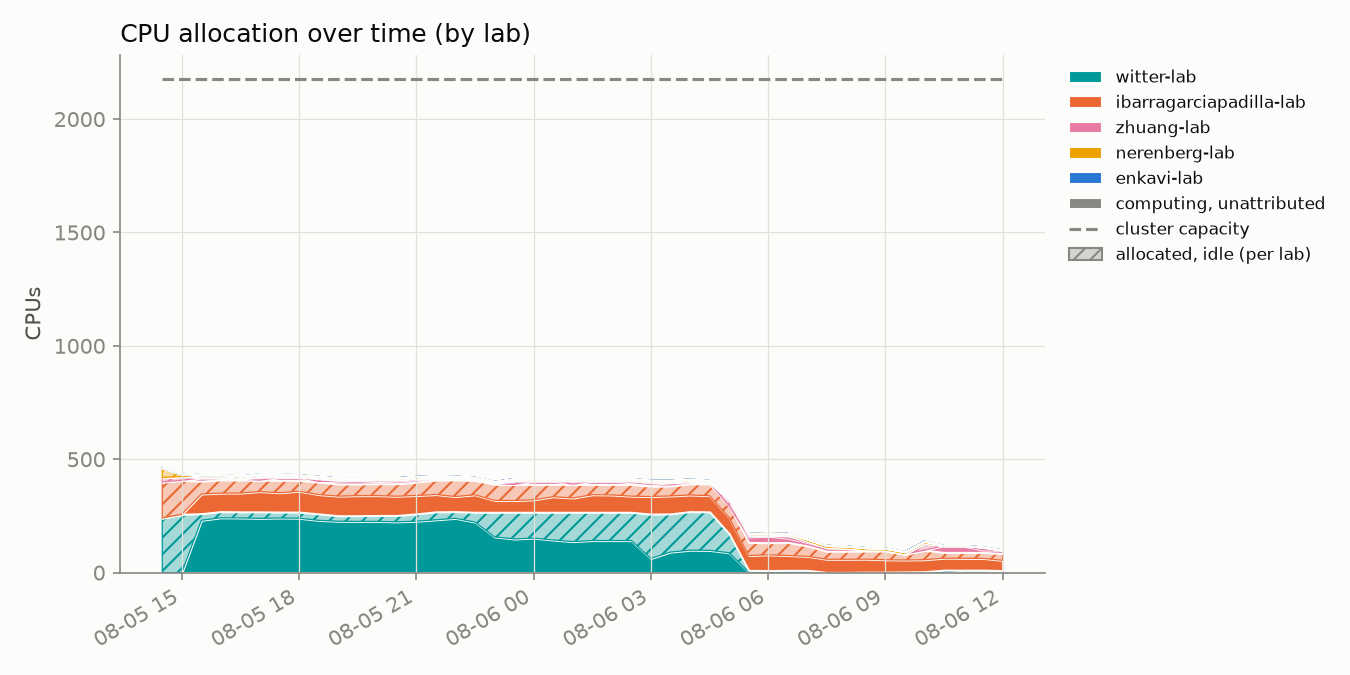
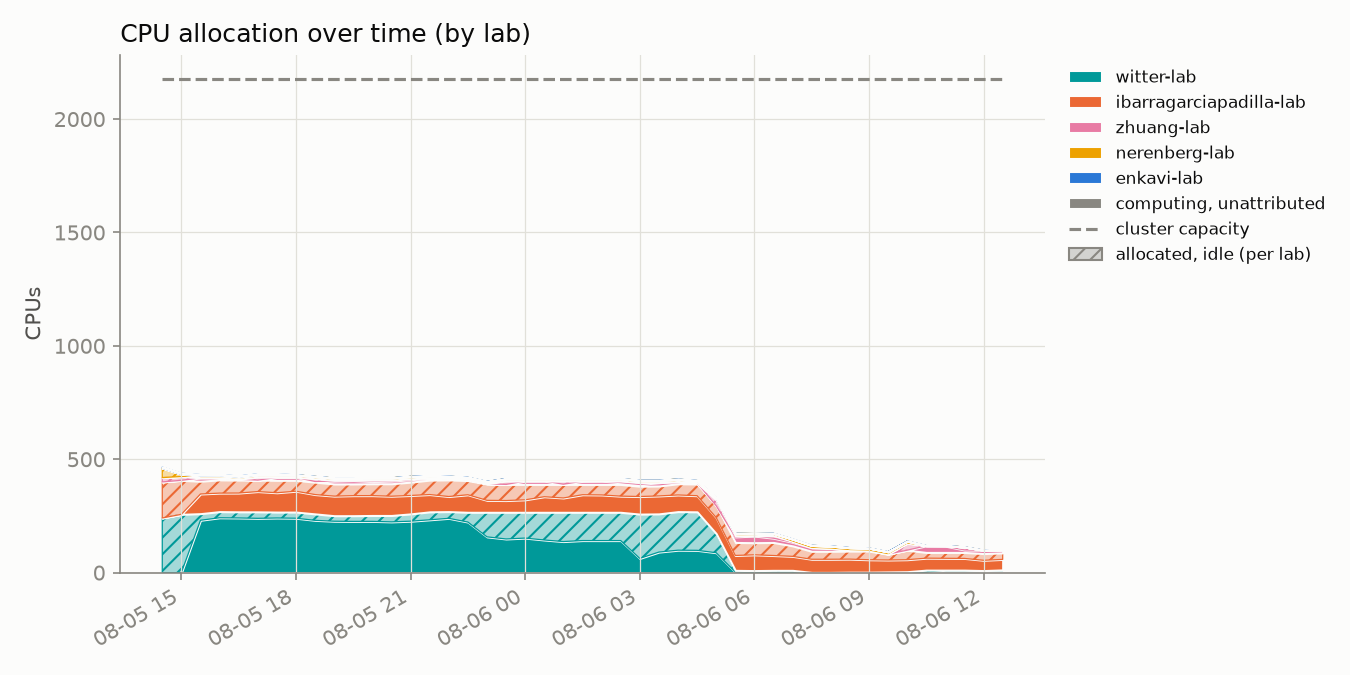
update 2026-08-06T12:30:01-07:00

diff --git a/README.md b/README.md
@@ -2,8 +2,8 @@
 
 Automated GPU/CPU/queue utilization tracker for `hopper.cluster`, updated every 30 minutes by cron. Usernames are anonymized to a stable per-account pseudonym; lab names are real.
 
-Last updated: 2026-08-06T12:00:19-07:00
-Samples: 44 queue snapshots, 44 GPU snapshots
+Last updated: 2026-08-06T12:30:18-07:00
+Samples: 45 queue snapshots, 45 GPU snapshots
 
 ## Resources
 
@@ -16,22 +16,22 @@ Samples: 44 queue snapshots, 44 GPU snapshots
 
 ## Headline
 
-- **70.3%** of the cluster's 60 GPUs allocated, averaged across all samples
+- **69.6%** of the cluster's 60 GPUs allocated, averaged across all samples
 - **39.8%** average `nvidia-smi` utilization *when* a GPU is allocated to a job
-- **82.0%** average cgroup CPU utilization *when* a CPU is allocated to a job
+- **82.2%** average cgroup CPU utilization *when* a CPU is allocated to a job
 
 ## Per lab / per user
 
 <table>
 <tr><th>Lab</th><th>User</th><th align='right'>GPU-hours allocated</th><th align='right'>CPU-hours allocated</th><th align='right'>GPU utilization</th></tr>
 <tr style='background-color:#d8efef'><td>witter-lab</td><td>user-d58f5a15</td><td align='right'>467.5</td><td align='right'>3740.0</td><td align='right'>9%</td></tr>
-<tr style='background-color:#fbebf1'><td>zhuang-lab</td><td>user-0db9ced0</td><td align='right'>336.0</td><td align='right'>336.0</td><td align='right'>48%</td></tr>
-<tr style='background-color:#d8efef'><td>witter-lab</td><td>user-554c620c</td><td align='right'>85.0</td><td align='right'>196.0</td><td align='right'>70%</td></tr>
+<tr style='background-color:#fbebf1'><td>zhuang-lab</td><td>user-0db9ced0</td><td align='right'>343.0</td><td align='right'>343.0</td><td align='right'>48%</td></tr>
+<tr style='background-color:#d8efef'><td>witter-lab</td><td>user-554c620c</td><td align='right'>89.5</td><td align='right'>202.0</td><td align='right'>70%</td></tr>
 <tr style='background-color:#fcf0d8'><td>nerenberg-lab</td><td>user-6bb5f332</td><td align='right'>40.0</td><td align='right'>200.0</td><td align='right'>71%</td></tr>
-<tr style='background-color:#dfeaf8'><td>enkavi-lab</td><td>user-c21bdaa4</td><td align='right'>0.0</td><td align='right'>14.0</td><td align='right'>—</td></tr>
-<tr style='background-color:#fcf0d8'><td>nerenberg-lab</td><td>user-b12dc074</td><td align='right'>0.0</td><td align='right'>16.0</td><td align='right'>—</td></tr>
-<tr style='background-color:#fce8e0'><td>ibarragarciapadilla-lab</td><td>user-3cfc41a3</td><td align='right'>0.0</td><td align='right'>2437.5</td><td align='right'>—</td></tr>
+<tr style='background-color:#fce8e0'><td>ibarragarciapadilla-lab</td><td>user-3cfc41a3</td><td align='right'>0.0</td><td align='right'>2475.0</td><td align='right'>—</td></tr>
 <tr style='background-color:#fce8e0'><td>ibarragarciapadilla-lab</td><td>user-eec7ffae</td><td align='right'>0.0</td><td align='right'>234.5</td><td align='right'>—</td></tr>
+<tr style='background-color:#fcf0d8'><td>nerenberg-lab</td><td>user-b12dc074</td><td align='right'>0.0</td><td align='right'>16.0</td><td align='right'>—</td></tr>
+<tr style='background-color:#dfeaf8'><td>enkavi-lab</td><td>user-c21bdaa4</td><td align='right'>0.0</td><td align='right'>14.0</td><td align='right'>—</td></tr>
 </table>
 
 (Row background is each lab's chart color, lightened, matching the charts above. GitHub strips inline CSS, so this table renders plain on github.com; the tint shows in renderers that keep inline styles, e.g. a local Markdown preview.)
@@ -44,7 +44,7 @@ Samples: 44 queue snapshots, 44 GPU snapshots
 
 Both charts share the same structure: solid color is *utilized* by lab, translucent + hatched (same color) on top of it is that lab's *allocated but idle*, solid gray above that is usage that couldn't be traced to a job or lab, and the dashed line is total cluster capacity - any gap above it is unallocated headroom. CPU utilization comes from cgroup v2 accounting (`cpu.stat`'s `usage_usec`, cumulative CPU time per job) read directly off each node, since `sstat` returns nothing usable for this on this cluster.
 
-Attribution is cross-referenced two ways: `nvidia-smi`'s own process listing (misses containerized/namespaced processes), backfilled from Slurm's GPU-to-job binding record (`scontrol show job -dd`). The scontrol fallback attributed **1413** GPU readings this run that the process-listing path missed.
+Attribution is cross-referenced two ways: `nvidia-smi`'s own process listing (misses containerized/namespaced processes), backfilled from Slurm's GPU-to-job binding record (`scontrol show job -dd`). The scontrol fallback attributed **1433** GPU readings this run that the process-listing path missed.
 
 ## Queue
 
@@ -56,7 +56,7 @@ Only jobs Slurm is actively scoring for scheduling (has a `sprio` priority) coun
 
 ![CPU usage vs GPU usage, decayed](assets/cpu_gpu_usage.png)
 
-Each point is one user at one snapshot (n=255), not averaged over time, to show how a user's position moves rather than collapsing it to a single number. Both axes are usage decayed with Slurm's own ~7-day fairshare half-life (`PriorityDecayHalfLife` on this cluster), not a lifetime total or a per-day average.
+Each point is one user at one snapshot (n=258), not averaged over time, to show how a user's position moves rather than collapsing it to a single number. Both axes are usage decayed with Slurm's own ~7-day fairshare half-life (`PriorityDecayHalfLife` on this cluster), not a lifetime total or a per-day average.
 
 **CPU usage (x-axis) is essentially what earns priority here; GPU usage (y-axis) is what Slurm could weight the same way but doesn't**: `PriorityWeightTRES` is unset, and partition `main` has no `TRESBillingWeights` configured, so fairshare usage accounting bills by CPU count alone - a job holding 4 GPUs and 8 CPUs accrues the same usage debt as an 8-CPU, no-GPU job. The users worth a second look are in the **upper-left**: low decayed CPU usage (high, unpenalized fairshare priority) paired with high decayed GPU usage.
 
